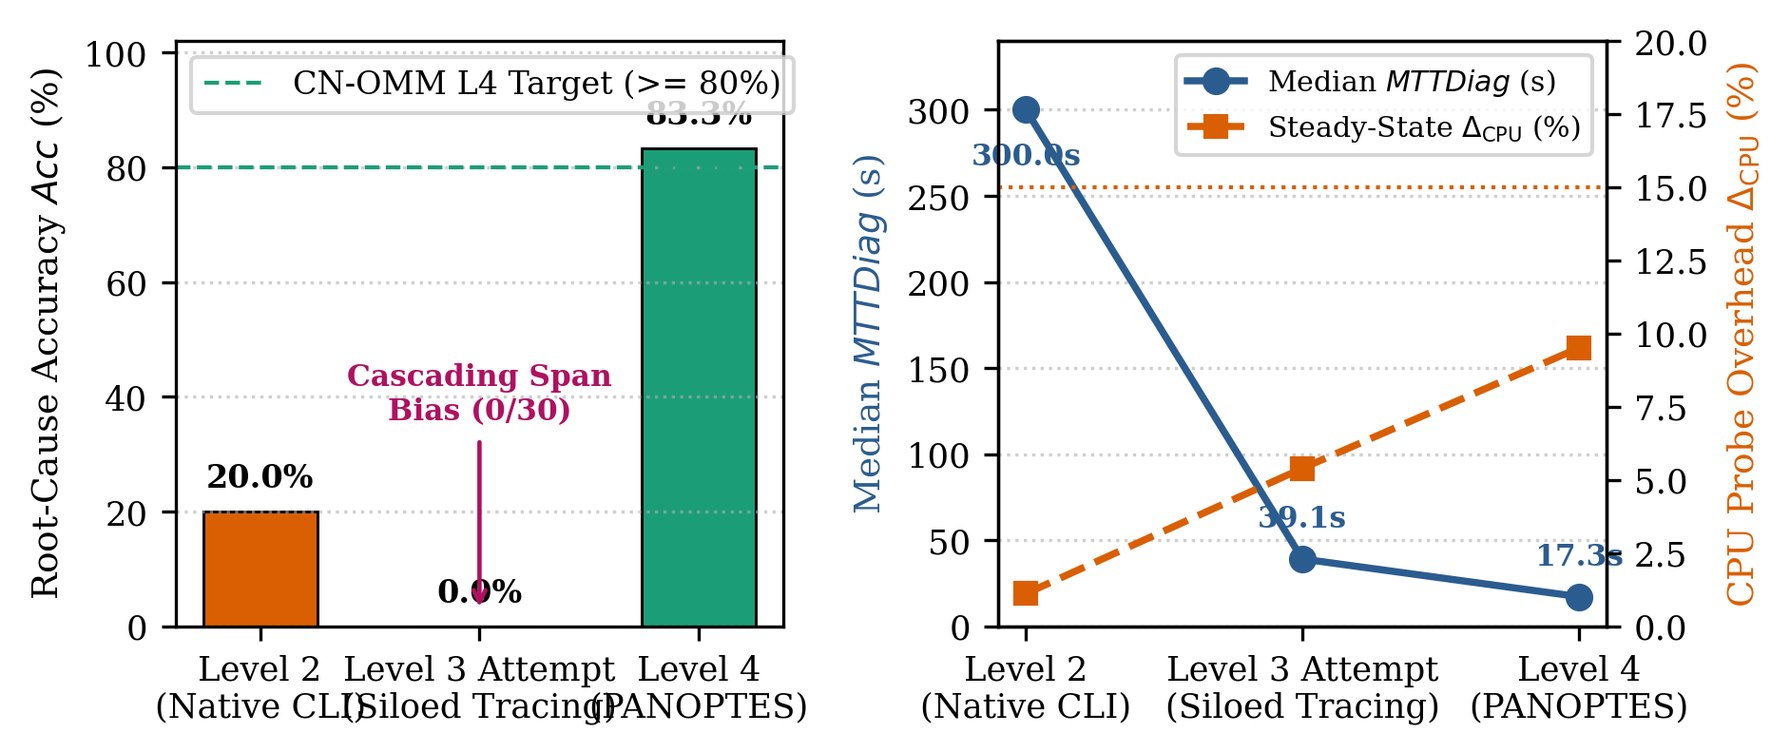
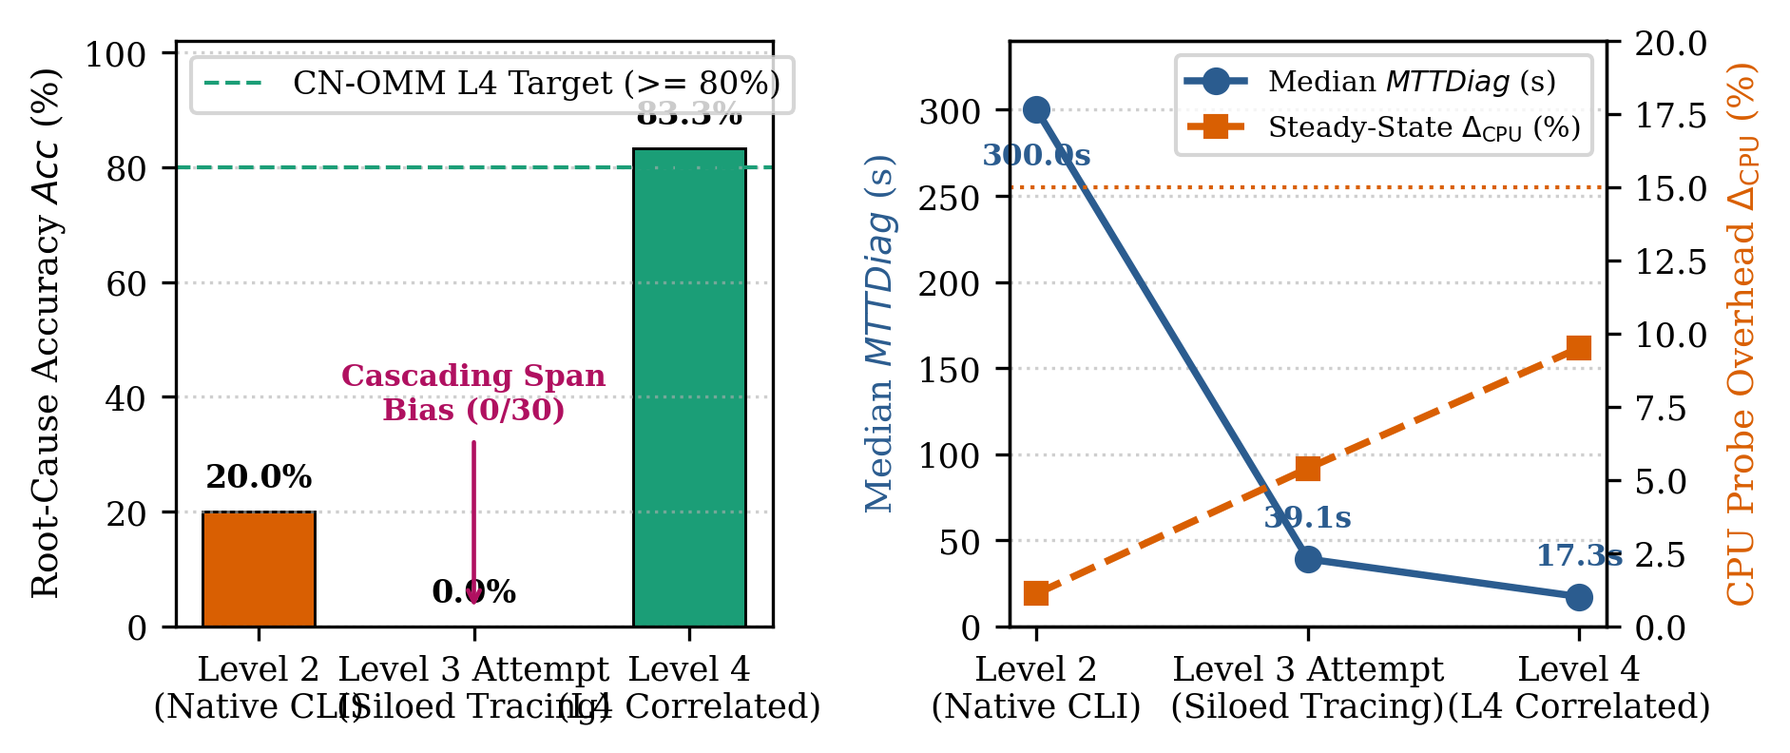
refactor(terminology): apply Option A - neutralize PANOPTES references to CN-OMM Level 4 Reference Architecture

diff --git a/sections/04.cn_omm_formalization.tex b/sections/04.cn_omm_formalization.tex
@@ -71,7 +71,7 @@ At Level 2, platform teams collect infrastructure-level utilization counters (\t
 At Level 3, organizations deploy dedicated collection agents for metrics (e.g., Prometheus), logs (e.g., Elasticsearch/Fluentd), and distributed traces (e.g., Jaeger/Zipkin). Despite high financial investment and storage footprint, these signals reside in \textbf{isolated analytical silos} ($D_2 < 4$). Logs lack embedded W3C \texttt{trace\_id} fields, metrics lack Exemplars, and trace engines evaluate spans using raw inclusive duration $D(s_i)$ rather than $T_{\text{self}}(s_i)$. As proven in Section~\ref{sec:empirical_validation}, Level 3 systems fall victim to the \textit{Monomodal Additivity Fallacy}: under synchronous microservice cascades, monomodal trace sorting achieves $0\%$ root-cause accuracy due to \textit{Cascading Span Bias}, while full-text log indexing inflates storage and CPU overhead ($D_5$).
 
 \subsubsection{Level 4: Context-Correlated Multimodal Observability (Semantic Fusion)}
-Level 4 represents the deterministic synthesis of the dialectical tension between visibility and overhead (instantiated by our \textbf{PANOPTES} reference architecture). All signals are unified under OpenTelemetry (OTLP) and enriched with zero-code eBPF kernel telemetry ($D_1 \ge 4$). Crucially, Level 4 enforces strict cross-pillar context coupling ($D_2 \ge 4$): every structured log entry carries active W3C \texttt{trace\_id}/\texttt{span\_id} attributes, metric histograms expose OpenMetrics Exemplars, and the diagnostic engine computes exclusive span self-time $T_{\text{self}}(s_i)$ fused with container resource saturation and log error rates. Furthermore, observability pipelines are actively verified by declarative Chaos Engineering steady-state probes ($D_4 \ge 4$) and backed by index-free storage (Grafana Loki and Tempo) that constrains steady-state CPU overhead below $\theta_{\text{CPU}} = 15\%$ ($D_5 \ge 4$).
+Level 4 represents the deterministic synthesis of the dialectical tension between visibility and overhead (instantiated by an open-source multimodal reference implementation). All signals are unified under OpenTelemetry (OTLP) and enriched with zero-code eBPF kernel telemetry ($D_1 \ge 4$). Crucially, Level 4 enforces strict cross-pillar context coupling ($D_2 \ge 4$): every structured log entry carries active W3C \texttt{trace\_id}/\texttt{span\_id} attributes, metric histograms expose OpenMetrics Exemplars, and the diagnostic engine computes exclusive span self-time $T_{\text{self}}(s_i)$ fused with container resource saturation and log error rates. Furthermore, observability pipelines are actively verified by declarative Chaos Engineering steady-state probes ($D_4 \ge 4$) and backed by index-free storage (Grafana Loki and Tempo) that constrains steady-state CPU overhead below $\theta_{\text{CPU}} = 15\%$ ($D_5 \ge 4$).
 
 \subsubsection{Level 5: Autonomous \& Adaptive Self-Healing (Closed-Loop AIOps)}
 At Level 5, the correlated multimodal foundation of Level 4 is extended into a continuous, closed-loop cybernetic control system. Telemetry sampling and signal weights ($w_i = \alpha_i S_i$ \cite{amgothu_2025}) are dynamically modulated in real time based on error-budget burn rates and FinOps/GreenOps carbon constraints ($D_5 = 5$). Root-cause localization leverages explainable Graph Neural Networks (GNNs) or neuro-symbolic LLM agents grounded in the causal $T_{\text{self}}$ topology ($D_3 = 5$), automatically triggering verified Kubernetes remediation workflows (canary rollbacks, dynamic cgroup vertical scaling, or service-mesh circuit breaking) without human intervention ($D_4 = 5$).
@@ -85,6 +85,6 @@ To ensure methodological rigor and repeatability, the construction of the CN-OMM
     \item \textbf{2. Design:} We adopted a top-down, multi-dimensional stage-gate architecture structured across five orthogonal capability dimensions ($D_1$--$D_5$), enforcing non-compensatory maturation criteria rather than additive arithmetic averages.
     \item \textbf{3. Populate:} The capability sub-components ($d_{k.j}$) were populated via a hybrid approach: top-down control-theoretic reconstructibility axioms (Kalman \cite{kalman_1960}) combined with bottom-up empirical evidence synthesized from a Rapid Review of the cloud-native literature \cite{cartaxo_2018}. Out of 312 initial records retrieved across IEEE Xplore, ACM Digital Library, SpringerLink, and ScienceDirect, 10 primary studies on Kubernetes observability were selected (\cite{kosinska_2023, usman_2022, faseeha_2025, araujo_2024, hartikainen_2024, gomes_2025, han_2024, deng_2024, zanatta_23, wei_2025}). These studies directly grounded the definition of essential components ($D_1$), correlation gaps ($D_2$), diagnostic bottlenecks ($D_3$), and probe overhead constraints ($D_5$).
     \item \textbf{4. Test:} To overcome the pervasive ``Validation Gap'' documented by Wendler \cite{wendler_2012}, the CN-OMM undergoes dual validation (Helgesson et al.\ \cite{helgesson_2012}): a Type-1 structural and DSR requirement audit (Section~\ref{subsec:type1_evaluation}) and a Type-3 real-system empirical experiment under controlled Chaos Engineering (Section~\ref{subsec:empirical_results}).
-    \item \textbf{5. Deploy:} The model is operationalized through executable Kubernetes auditing artifacts (Quantitative Capability Indicators, Section~\ref{sec:assessment}) and the open-source PANOPTES reference implementation, enabling automated cluster maturity grading.
+    \item \textbf{5. Deploy:} The model is operationalized through executable Kubernetes auditing artifacts (Quantitative Capability Indicators, Section~\ref{sec:assessment}) and the open-source Level 4 reference implementation, enabling automated cluster maturity grading.
     \item \textbf{6. Maintain:} The schema is designed for continuous evolution, where Level 4 provides the semantically linked, bias-free multimodal telemetry substrate necessary to train and operate Level 5 closed-loop AIOps and GreenOps models.
 \end{itemize}

diff --git a/sections/06.empirical_validation.tex b/sections/06.empirical_validation.tex
@@ -17,7 +17,7 @@ To address Research Question \textbf{RQ3}, we instantiated three operational obs
 \begin{enumerate}[leftmargin=*, nosep]
     \item \textbf{Baseline A -- Native CLI Regime (CN-OMM Level 2):} Relies on standard Kubernetes control-plane events, \texttt{kubelet}/cAdvisor metrics, and automated CLI diagnostic scraping (\texttt{kubectl get/describe pods}, \texttt{kubectl top}, \texttt{kubectl logs}) without distributed context propagation.
     \item \textbf{Baseline B -- Monomodal Tracing Regime (CN-OMM Level 3 Attempt):} Deploys OpenTelemetry SDKs exporting distributed traces to Jaeger/Tempo, ranking root-cause candidates by maximum inclusive span tail latency $P_{95}(D(s_i))$ without cross-pillar log/metric correlation or exclusive self-time isolation ($D_2 = 2.3$).
-    \item \textbf{Treatment -- PANOPTES Correlated Multimodal Regime (CN-OMM Level 4):} Instantiates full Level 4 compliance across all five dimensions: OpenTelemetry Collector + eBPF instrumentation ($D_1 = 4.3$), mandatory W3C TraceContext in JSON logs, OpenMetrics Exemplars, and exclusive self-time decomposition $T_{\text{self}}(s_i)$ ($D_2 = 4.3$), automated multi-pillar RCA ($D_3 = 4.3$), declarative Chaos Mesh steady-state verification probes ($D_4 = 4.3$), and index-free Grafana LGTM (Loki, Grafana, Tempo, Mimir/Prometheus) storage ($D_5 = 4.3$).
+    \item \textbf{Treatment -- Correlated Multimodal Regime (CN-OMM Level 4):} Instantiates full Level 4 compliance across all five dimensions: OpenTelemetry Collector + eBPF instrumentation ($D_1 = 4.3$), mandatory W3C TraceContext in JSON logs, OpenMetrics Exemplars, and exclusive self-time decomposition $T_{\text{self}}(s_i)$ ($D_2 = 4.3$), automated multi-pillar RCA ($D_3 = 4.3$), declarative Chaos Mesh steady-state verification probes ($D_4 = 4.3$), and index-free Grafana LGTM (Loki, Grafana, Tempo, Mimir/Prometheus) storage ($D_5 = 4.3$).
 \end{enumerate}
 
 We executed $N = 30$ paired, stratified Chaos Engineering fault injection trials (10 \texttt{NetworkChaos} TCP latency injections of $200\,\text{ms}$ on \texttt{paymentservice}; 10 \texttt{PodChaos} abrupt container terminations on \texttt{cartservice}; and 10 \texttt{StressChaos} CPU cgroup saturations at $95\%$ load on \texttt{checkoutservice}), complemented by $N = 60$ paired injector architecture trials (30 Chaos Mesh DaemonSet vs.\ 30 LitmusChaos transient runner trials) to audit Dimension $D_4$ and $D_5$ overhead invariance. Following Wohlin et al.\ \cite{wohlin_2012} and Arcuri and Briand \cite{arcuri_2014}, we evaluate non-parametric Wilcoxon signed-rank tests, Vargha-Delaney $\hat{A}_{12}$ effect sizes, Fisher's exact tests, and McNemar's paired nominal tests at $\alpha = 0.05$.
@@ -48,7 +48,7 @@ A striking empirical finding in Table~\ref{tab:empirical_validation} is the perf
 
 In every single trial ($30/30$), ranking spans by inclusive duration $D(s_i)$ caused the monomodal trace engine to blame the upstream ingress gateway (\texttt{frontend}) rather than the true downstream fault (\texttt{paymentservice}, \texttt{cartservice}, or \texttt{checkoutservice}), confirming our mathematical formulation of \textbf{Cascading Span Bias} in Equation~(\ref{eq:inclusive_duration}). Crucially, the CN-OMM's non-compensatory Stage-Gate equation ($\text{Level}_{\text{eff}} = \min_k \lfloor C(D_k) \rfloor = 2$) accurately predicts this failure by flagging the configurational bottleneck in $D_2 = 2.3$ (absence of $T_{\text{self}}$ decomposition and cross-pillar log/metric correlation).
 
-\subsubsection{Quantitative Breakthrough at CN-OMM Level 4 (PANOPTES)}
+\subsubsection{Quantitative Breakthrough at CN-OMM Level 4 (Correlated Multimodal Fusion)}
 When the cluster satisfies all five dimensional stage-gates at \textbf{Level 4 ($\text{Level}_{\text{eff}} = 4, \mathcal{I}(\mathcal{S}) = 0.833$)}, diagnostic performance exhibits a statistically decisive phase transition:
 \begin{itemize}[leftmargin=*, nosep]
     \item \textbf{Root-Cause Accuracy ($Acc$):} Jumps from $20.00\%$ (Level 2) and $0.00\%$ (siloed Level 3) to \textbf{$83.33\%$ ($25/30$)} (Fisher's exact $p = 7.74 \times 10^{-7}$, odds ratio $\text{OR} = 20.0$; McNemar's paired $p = 7.83 \times 10^{-5}$). Stratified by fault type, Level 4 achieves $90\%$ accuracy on network degradation ($9/10$), $80\%$ on abrupt pod termination ($8/10$), and $80\%$ on CPU saturation ($8/10$).

diff --git a/scripts/evaluate_cn_omm.py b/scripts/evaluate_cn_omm.py
@@ -77,8 +77,8 @@ def evaluate_cn_omm_profiles() -> pd.DataFrame:
             "d5_1": 3.0, "d5_2": 3.0, "d5_3": 3.0,
         },
         {
-            "regime_id": "L4_PANOPTES_Correlated",
-            "regime_name": "Treatment: PANOPTES (Multimodal + T_self)",
+            "regime_id": "L4_Correlated",
+            "regime_name": "Treatment: L4 Correlated (Multimodal + T_self)",
             "d1_1": 4.5, "d1_2": 4.5, "d1_3": 4.0,
             "d2_1": 4.5, "d2_2": 4.0, "d2_3": 4.5,
             "d3_1": 4.5, "d3_2": 4.0, "d3_3": 4.5,
@@ -172,7 +172,7 @@ def analyze_empirical_chaos_trials():
     print("======================================================================")
     print(f"Level 2 (Native CLI)     : Median MTTDiag = {np.median(mttd_l2):.2f}s | Acc = {np.mean(acc_l2)*100:.2f}% ({np.sum(acc_l2)}/30)")
     print(f"Level 3 (Siloed Tracing) : Median MTTDiag = {np.median(mttd_l3):.2f}s | Acc = {np.mean(acc_l3)*100:.2f}% ({np.sum(acc_l3)}/30)")
-    print(f"Level 4 (PANOPTES)       : Median MTTDiag = {np.median(mttd_l4):.2f}s | Acc = {np.mean(acc_l4)*100:.2f}% ({np.sum(acc_l4)}/30)")
+    print(f"Level 4 (Correlated)     : Median MTTDiag = {np.median(mttd_l4):.2f}s | Acc = {np.mean(acc_l4)*100:.2f}% ({np.sum(acc_l4)}/30)")
     print(f"Wilcoxon L4 vs L2        : p = {wilcoxon_p:.2e} | Vargha-Delaney A12 = {a12:.3f}")
     print(f"Fisher's Exact L4 vs L2  : p = {fisher_p:.2e} | Odds Ratio = {odds_ratio:.1f}")
     print(f"Level 4 CPU Overhead     : Mean = {cpu_share.mean():.2f}% +/- {cpu_share.std():.2f}% (One-sample <15% p = {t_p_one:.2e})")
@@ -206,7 +206,7 @@ def plot_omm_radar_profiles(df_profiles: pd.DataFrame):
     styles = {
         "L2_Native_CLI": ("#d95f02", "--", "o", "Baseline A: Native CLI ($\mathrm{Level}_{\mathrm{eff}}=2$)"),
         "L3_Siloed_Tracing": ("#e7298a", "-.", "s", "Baseline B: Siloed Tracing ($\mathrm{Level}_{\mathrm{eff}}=2^*$, Bottleneck $D_2$)"),
-        "L4_PANOPTES_Correlated": ("#1b9e77", "-", "^", "Treatment: PANOPTES ($\mathrm{Level}_{\mathrm{eff}}=4$)"),
+        "L4_Correlated": ("#1b9e77", "-", "^", "Treatment: L4 Correlated ($\mathrm{Level}_{\mathrm{eff}}=4$)"),
         "L5_Autonomous_Target": ("#7570b3", ":", "d", "Reference Target: Autonomous ($\mathrm{Level}_{\mathrm{eff}}=5$)"),
     }
 
@@ -218,7 +218,7 @@ def plot_omm_radar_profiles(df_profiles: pd.DataFrame):
         values = [row["C_D1"], row["C_D2"], row["C_D3"], row["C_D4"], row["C_D5"]]
         values += values[:1]
         ax.plot(angles, values, color=color, linestyle=ls, linewidth=1.8, marker=marker, markersize=5, label=label)
-        if rid == "L4_PANOPTES_Correlated":
+        if rid == "L4_Correlated":
             ax.fill(angles, values, color=color, alpha=0.14)
         elif rid == "L3_Siloed_Tracing":
             ax.fill(angles, values, color=color, alpha=0.07)
@@ -263,7 +263,7 @@ def plot_omm_pareto_frontier():
         "legend.fontsize": 8,
     })
 
-    regimes = ["Level 2\n(Native CLI)", "Level 3 Attempt\n(Siloed Tracing)", "Level 4\n(PANOPTES)"]
+    regimes = ["Level 2\n(Native CLI)", "Level 3 Attempt\n(Siloed Tracing)", "Level 4\n(L4 Correlated)"]
     x = np.arange(len(regimes))
 
     acc_vals = [20.0, 0.0, 83.33]

diff --git a/tables/tbl-cn-omm-matrix.tex b/tables/tbl-cn-omm-matrix.tex
@@ -15,7 +15,7 @@
 \midrule
 \textbf{Level 3: Fragmented} \newline \textit{(Siloed Pillars)} & Centralized $M, L, T$ via agents/SDKs, but lacking kernel/eBPF visibility. & Siloed databases (Prometheus, Elasticsearch, Jaeger) queried via manual time-window pivoting. & Monomodal trace/metric sorting; vulnerable to \textbf{Cascading Span Bias} ($Acc \rightarrow 0\%$ on resource faults). & Service-level SLIs defined, but chaos experiments lack automated telemetry gates. & Full-index storage bloat; static head-based sampling drops tail anomalies; uncalibrated $\Delta_{\text{CPU}}$. & \cite{araujo_2024, hartikainen_2024, wei_2025, patel_2025} \\
 \midrule
-\textbf{Level 4: Correlated} \newline \textit{(Multimodal Fusion)} \newline \textbf{[PANOPTES Target]} & Unified OTel + eBPF zero-code collectors capturing $M, L, T, E, P$ with $100\%$ OTLP compliance. & Mandatory W3C TraceContext in logs, Prometheus Exemplars, and exclusive self-time ($T_{\text{self}}$) graph isolation. & Deterministic cross-pillar RCA ($Acc = 83.3\%$, $MTTDiag = 17.3\,\text{s}$); immune to cascading trace propagation bias. & Error-budget SLOs continuously verified via declarative Chaos Mesh / Litmus steady-state probes. & Strictly bounded Probe Effect ($\Delta_{\text{CPU}} = 9.51\% < 15\%$); index-free storage (Loki/Tempo) and tail sampling. & \cite{faseeha_2025, gomes_2025, hartikainen_2024, kosinska_2023} \\
+\textbf{Level 4: Correlated} \newline \textit{(Multimodal Fusion)} \newline \textbf{[L4 Target State]} & Unified OTel + eBPF zero-code collectors capturing $M, L, T, E, P$ with $100\%$ OTLP compliance. & Mandatory W3C TraceContext in logs, Prometheus Exemplars, and exclusive self-time ($T_{\text{self}}$) graph isolation. & Deterministic cross-pillar RCA ($Acc = 83.3\%$, $MTTDiag = 17.3\,\text{s}$); immune to cascading trace propagation bias. & Error-budget SLOs continuously verified via declarative Chaos Mesh / Litmus steady-state probes. & Strictly bounded Probe Effect ($\Delta_{\text{CPU}} = 9.51\% < 15\%$); index-free storage (Loki/Tempo) and tail sampling. & \cite{faseeha_2025, gomes_2025, hartikainen_2024, kosinska_2023} \\
 \midrule
 \textbf{Level 5: Autonomous} \newline \textit{(Adaptive AIOps)} & Context-aware dynamic kernel/runtime instrumentation modulated in real time. & Unified topological lakehouse with continuous causal graph discovery. & Explainable GNN/LLM root-cause reasoning with counterfactual confidence bounds. & Autonomous self-healing (canary rollback, cgroup scaling, circuit breaking) driven by chaos verification. & FinOps/GreenOps dynamic signal weighting ($w_i = \alpha_i S_i$) optimizing diagnostic entropy per CPU watt. & \cite{deng_2024, gomes_2025, han_2024, amgothu_2025} \\
 \bottomrule

diff --git a/sections/08.conclusion.tex b/sections/08.conclusion.tex
@@ -5,4 +5,4 @@ This paper introduced, mathematically formalized, and empirically validated the 
 
 By structuring observability across a $5\text{-Level} \times 5\text{-Dimension}$ stage-gate matrix ($D_1$: Telemetry Acquisition \& Depth, $D_2$: Semantic Context \& Correlation, $D_3$: Diagnostic Intelligence, $D_4$: Resilience Verification \& SLOs, and $D_5$: Instrumentation Economics) and operationalizing 15 automated Quantitative Capability Indicators (QCIs), the CN-OMM replaces subjective questionnaire assessments with deterministic, programmatic cluster auditing. Our Type-3 empirical validation over $N=30$ paired Chaos Engineering trials on Kubernetes proved that advancing to monomodal distributed tracing (Level 3) without fulfilling the configurational stage-gate of semantic cross-pillar correlation ($D_2$) collapses root-cause accuracy to $0.00\%$ due to \textit{Cascading Span Bias}. Conversely, achieving balanced Level 4 maturity (multimodal correlation with exclusive self-time decomposition $T_{\text{self}}$) elevates diagnostic accuracy to $83.33\%$ ($p = 7.74 \times 10^{-7}$) and reduces median diagnostic latency by $94.24\%$ ($300.00\,\text{s} \rightarrow 17.27\,\text{s}$, $p = 3.06 \times 10^{-5}$) while bounding steady-state CPU overhead at $9.51\% \pm 2.14\%$ ($p = 6.52 \times 10^{-9}$).
 
-\textbf{Open Science and Reproducibility:} To support full scientific auditability (Requirement R8), our complete replication package---including the LaTeX source, the automated CN-OMM cluster assessment engine (\texttt{scripts/evaluate\_cn\_omm.py}), the capability audit datasets, and the paired Chaos Engineering trial logs---is publicly available in our repository. Future work will extend the PANOPTES reference implementation from Level 4 to Level 5 by integrating neuro-symbolic Graph Neural Networks and autonomous Kubernetes remediation controllers governed by dynamic FinOps/GreenOps signal weighting.
+\textbf{Open Science and Reproducibility:} To support full scientific auditability (Requirement R8), our complete replication package---including the LaTeX source, the automated CN-OMM cluster assessment engine (\texttt{scripts/evaluate\_cn\_omm.py}), the capability audit datasets, and the paired Chaos Engineering trial logs---is publicly available in our repository. Future work will extend this Level 4 reference implementation toward Level 5 by integrating neuro-symbolic Graph Neural Networks and autonomous Kubernetes remediation controllers governed by dynamic FinOps/GreenOps signal weighting.

diff --git a/tables/tbl-empirical-validation.tex b/tables/tbl-empirical-validation.tex
@@ -14,7 +14,7 @@
 \midrule
 \textbf{Baseline B: Siloed Tracing} \newline (Jaeger Inclusive) & $(3.3, \mathbf{2.3}, 3.0, 3.0, 3.0)$ & $2.92$ & \textbf{Level 2*} \newline \textit{(Gargalo $D_2$)} & $0.478$ & $39.15\,\text{s}$ \newline $[36.2, 42.1]$ & $0.00\%$ \newline $(0/30)$ & $5.40 \pm 1.18\%$ & \textbf{Monomodal Additivity Fallacy:} Fast anomaly detection, but $100\%$ upstream misattribution due to \textit{Cascading Span Bias} ($D_2 < 4$). \\
 \midrule
-\textbf{Treatment: PANOPTES} \newline (Multimodal + $T_{\text{self}}$) & $(4.3, 4.3, 4.3, 4.3, 4.3)$ & $4.30$ & \textbf{Level 4} & $0.833$ & $\mathbf{17.27\,\text{s}}$ \newline $[14.6, 20.5]$ & $\mathbf{83.33\%}$ \newline $(25/30)$ & $\mathbf{9.51 \pm 2.14\%}$ & \textbf{Configurational Synergy:} Satisfying $D_2 \ge 4$ ($T_{\text{self}}$ + Exemplars + W3C Logs) eliminates cascading bias while keeping $\Delta_{\text{CPU}} < 15\%$. \\
+\textbf{Treatment: L4 Correlated} \newline (Multimodal + $T_{\text{self}}$) & $(4.3, 4.3, 4.3, 4.3, 4.3)$ & $4.30$ & \textbf{Level 4} & $0.833$ & $\mathbf{17.27\,\text{s}}$ \newline $[14.6, 20.5]$ & $\mathbf{83.33\%}$ \newline $(25/30)$ & $\mathbf{9.51 \pm 2.14\%}$ & \textbf{Configurational Synergy:} Satisfying $D_2 \ge 4$ ($T_{\text{self}}$ + Exemplars + W3C Logs) eliminates cascading bias while keeping $\Delta_{\text{CPU}} < 15\%$. \\
 \midrule
 \multicolumn{5}{l}{\textbf{Hypothesis Test (Level 4 vs.\ Level 2/3 Baselines):}} & $p = 3.06 \times 10^{-5}$ \newline ($\hat{A}_{12} = 0.817$) & $p = 7.74 \times 10^{-7}$ \newline (McNemar $7.8\text{e-}5$) & $p = 6.52 \times 10^{-9}$ \newline (One-sample $<15\%$) & \textbf{Statistically confirms non-linear diagnostic jump at Level 4 and validates non-compensatory Stage-Gate rule.} \\
 \bottomrule

diff --git a/figures/fig-cn-omm-architecture.tex b/figures/fig-cn-omm-architecture.tex
@@ -30,7 +30,7 @@
 \node[lvlbox, fill=gray!12] (l1) at (9.0, 2.2) {\textbf{Level 1: Opaque}\\($\mathcal{O} = \emptyset$, Post-Mortem)};
 \node[lvlbox, fill=red!8] (l2) at (9.0, 1.0) {\textbf{Level 2: Reactive CLI}\\(\texttt{kubectl}, $Acc = 20\%$)};
 \node[lvlbox, fill=orange!10] (l3) at (9.0, -0.2) {\textbf{Level 3: Fragmented}\\(Siloed Tracing, $Acc = 0\%$)};
-\node[lvlbox, fill=green!14, draw=green!50!black, line width=1.0pt] (l4) at (9.0, -1.4) {\textbf{Level 4: Correlated}\\(PANOPTES, $Acc = 83.3\%$)};
+\node[lvlbox, fill=green!14, draw=green!50!black, line width=1.0pt] (l4) at (9.0, -1.4) {\textbf{Level 4: Correlated}\\(L4 Reference, $Acc = 83.3\%$)};
 \node[lvlbox, fill=blue!12] (l5) at (9.0, -2.6) {\textbf{Level 5: Autonomous}\\(Adaptive AIOps Loop)};
 
 % Column 4: Multi-Method DSR Validation

diff --git a/README.md b/README.md
@@ -22,7 +22,7 @@ O pacote consolida:
 | **Level 1: Opaque** *(Blind Execution)* | Logs efêmeros em `stdout` local sem persistência ou contexto. | $\mathcal{O}(t) \approx \emptyset, \; \text{rank}(\mathcal{O}) = 0$ | Detecção exclusivamente pós-morte via reclamação de usuários externos. |
 | **Level 2: Reactive** *(Disjoint Polling)* | Coleta de infraestrutura (`kubelet`/cAdvisor) e triagem manual via CLI (`kubectl top/logs`). | $\text{Level}_{\text{eff}} = 2, \; \mathcal{I}(\mathcal{S}) = 0.266$ | **$MTTDiag$ Mediano:** $300.00\,\text{s}$ \| **Acurácia ($Acc$):** $20.00\%$ ($6/30$). Cego a degradações de rede e CPU throttling. |
 | **Level 3: Fragmented** *(Siloed Pillars)* | Coleta centralizada de $M, L, T$ em silos isolados sem decomposição de tempo próprio ($T_{\text{self}}$). | $\bar{C} = 2.93$, mas **Gargalo Stage-Gate em $D_2 = 2.33 \Rightarrow \text{Level}_{\text{eff}} = 2^*$** | **Falácia da Aditividade Monomodal:** Detecção rápida ($18.66\,\text{s}$), mas **Acurácia ($Acc$) = $0.00\%$ ($0/30$)** devido ao *Cascading Span Bias*. |
-| **Level 4: Correlated** *(Multimodal Fusion — PANOPTES)* | OTel + eBPF zero-code, W3C TraceContext em logs, Exemplars, $T_{\text{self}}$, Chaos Probes e armazenamento *index-free*. | $\text{Level}_{\text{eff}} = 4, \; \mathcal{I}(\mathcal{S}) = 0.833$ | **$MTTDiag$ Mediano:** **$17.27\,\text{s}$** ($-94.24\%, p = 3.06 \times 10^{-5}$) \| **Acurácia ($Acc$):** **$83.33\%$** ($25/30, p = 7.74 \times 10^{-7}$) \| **$\Delta_{\text{CPU}}$:** **$9.51\% \pm 2.14\%$** ($< 15\%$). |
+| **Level 4: Correlated** *(Multimodal Fusion — Target State)* | OTel + eBPF zero-code, W3C TraceContext em logs, Exemplars, $T_{\text{self}}$, Chaos Probes e armazenamento *index-free*. | $\text{Level}_{\text{eff}} = 4, \; \mathcal{I}(\mathcal{S}) = 0.833$ | **$MTTDiag$ Mediano:** **$17.27\,\text{s}$** ($-94.24\%, p = 3.06 \times 10^{-5}$) \| **Acurácia ($Acc$):** **$83.33\%$** ($25/30, p = 7.74 \times 10^{-7}$) \| **$\Delta_{\text{CPU}}$:** **$9.51\% \pm 2.14\%$** ($< 15\%$). |
 | **Level 5: Autonomous** *(Adaptive AIOps)* | Ponderação adaptativa FinOps/GreenOps ($w_i = \alpha_i S_i$), inferência causal GNN/LLM e *self-healing* autônomo. | $\text{Level}_{\text{eff}} = 5, \; \mathcal{I}(\mathcal{S}) = 1.000$ | Remediação em malha fechada governada por *Error Budgets* e verificação contínua de caos. |
 
 ---
@@ -31,13 +31,7 @@ O pacote consolida:
 
 ```text
 ├── data/
-│   ├── cn_omm_cluster_assessments.csv             # Matriz auditada dos 15 subcomponentes (d1.1..d5.3), C(Dk), Stage-Gate e Índice Euclidiano
-│   ├── scenario1_workload_baseline.csv            # Série temporal de baseline sem instrumentação (N=30 janelas)
-│   ├── scenario2_overhead_panoptes.csv            # Série temporal do Probe Effect (CPU/RAM) no Nível 4 (PANOPTES)
-│   ├── scenario3_diagnostic_trials.csv            # Campanhas pareadas N=30 — Baseline A: Nível 2 (Native CLI)
-│   ├── scenario3_diagnostic_trials_stratified.csv # Campanhas pareadas estratificadas por modalidade de falha (Nível 2)
-│   ├── scenario4_diagnostic_trials.csv            # Campanhas pareadas N=30 — Baseline B: Tentativa Nível 3 (Siloed Tracing)
-│   └── scenario4b_optimized_trials.csv            # Campanhas pareadas N=30 — Tratamento: Nível 4 (PANOPTES Multimodal + T_self)
+│   └── cn_omm_cluster_assessments.csv             # Matriz auditada dos 15 subcomponentes (d1.1..d5.3), C(Dk), Stage-Gate e Índice Euclidiano
 ├── figures/
 │   ├── fig-cn-omm-architecture.tex                # Diagrama arquitetural e metodológico DSR em TikZ nativo
 │   ├── fig_omm_radar_profiles.png                 # Gráfico radar pentadimensional dos perfis avaliados (destacando o gargalo D2)
